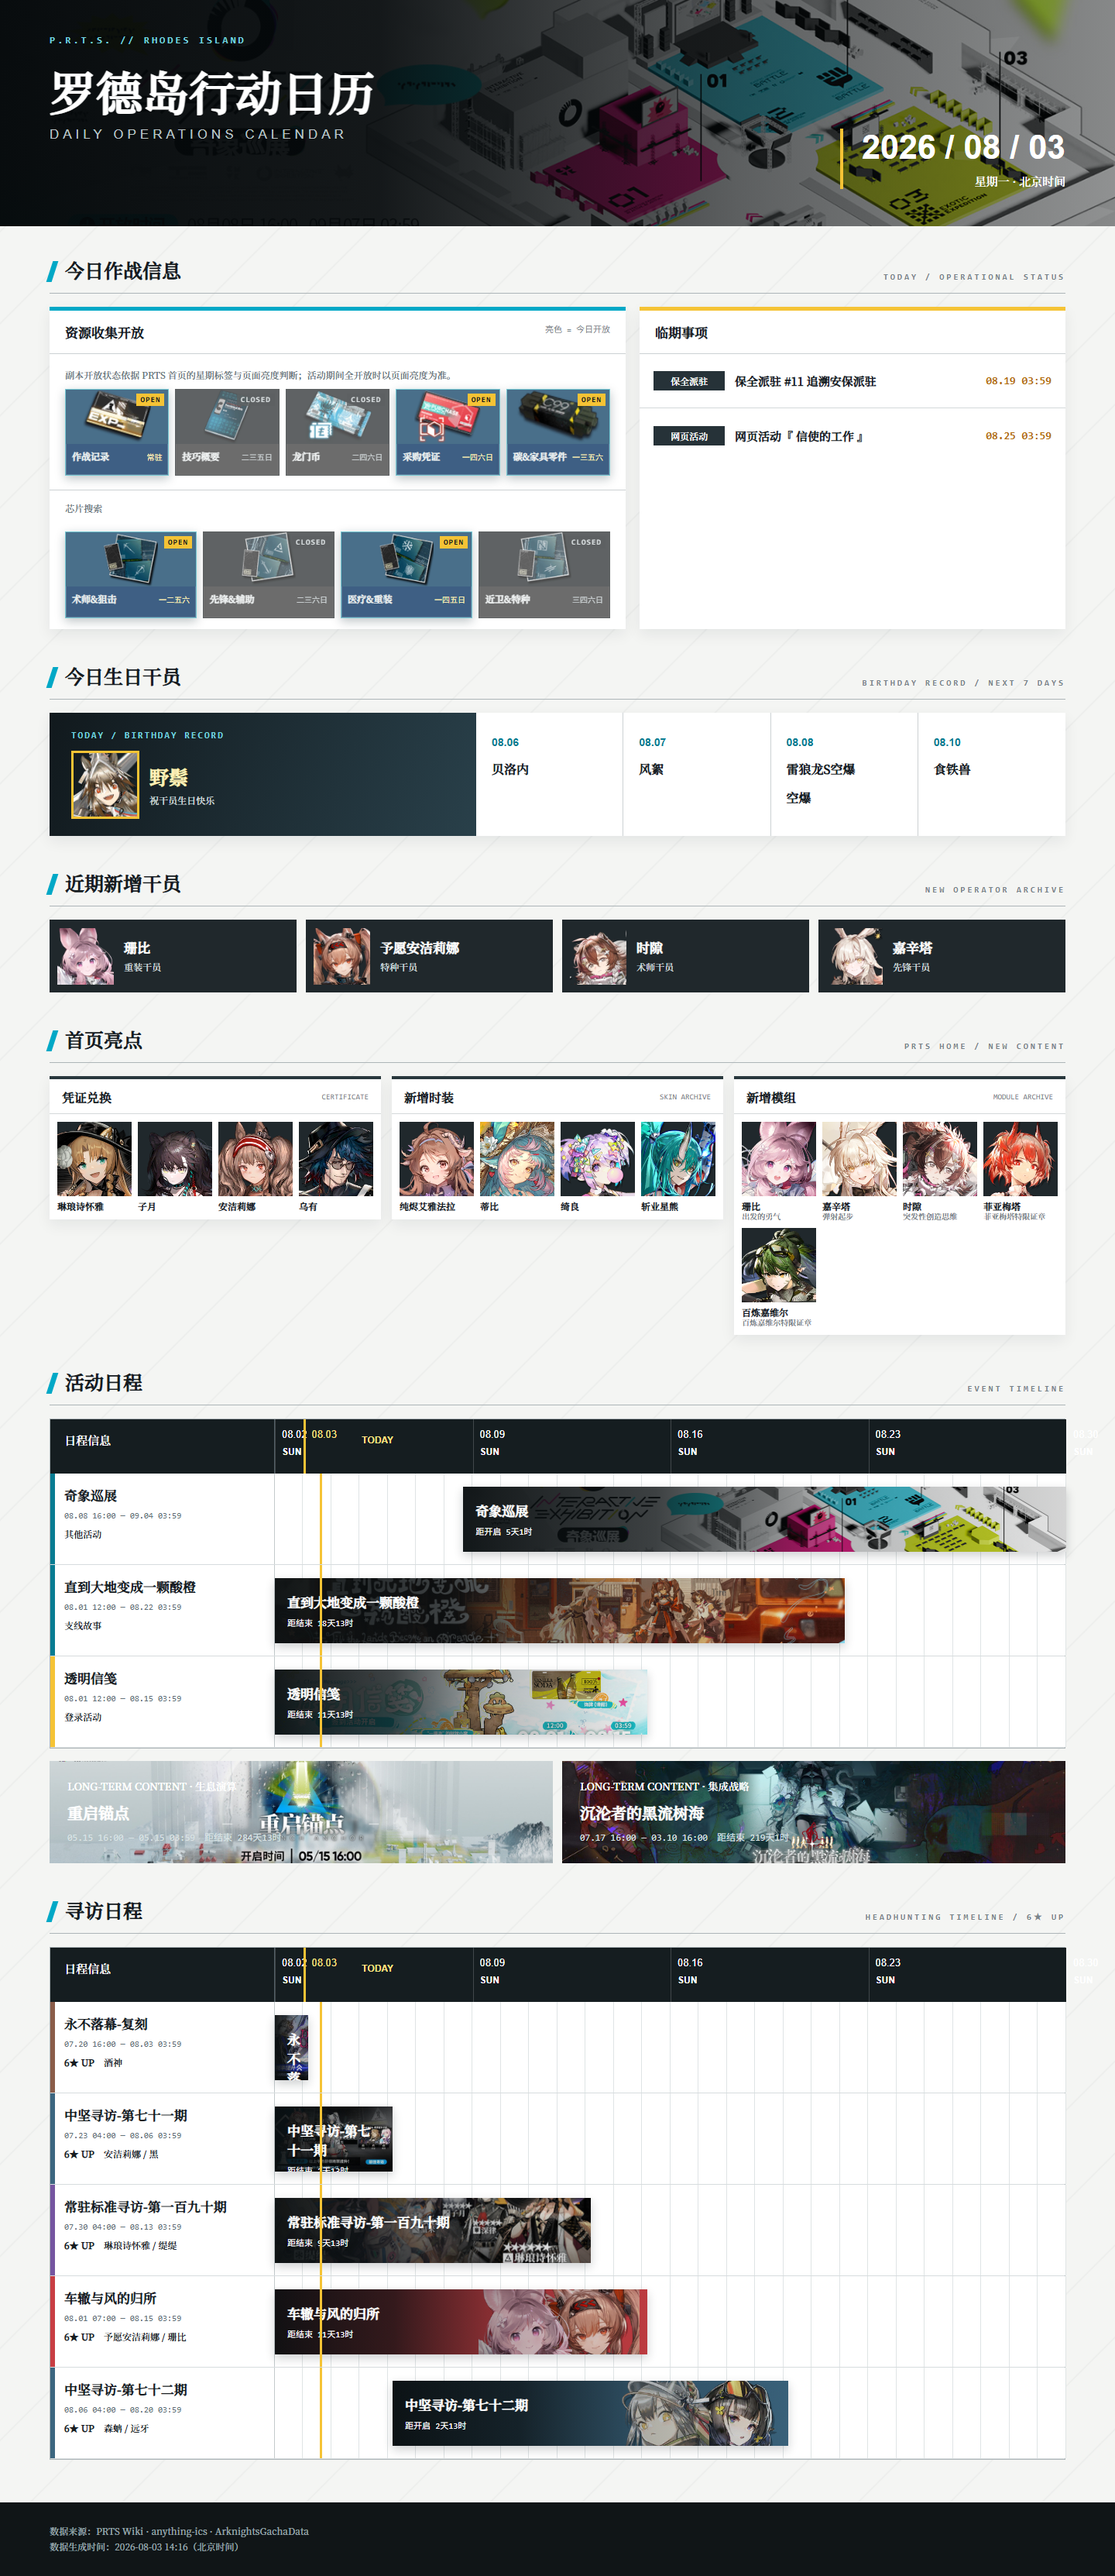
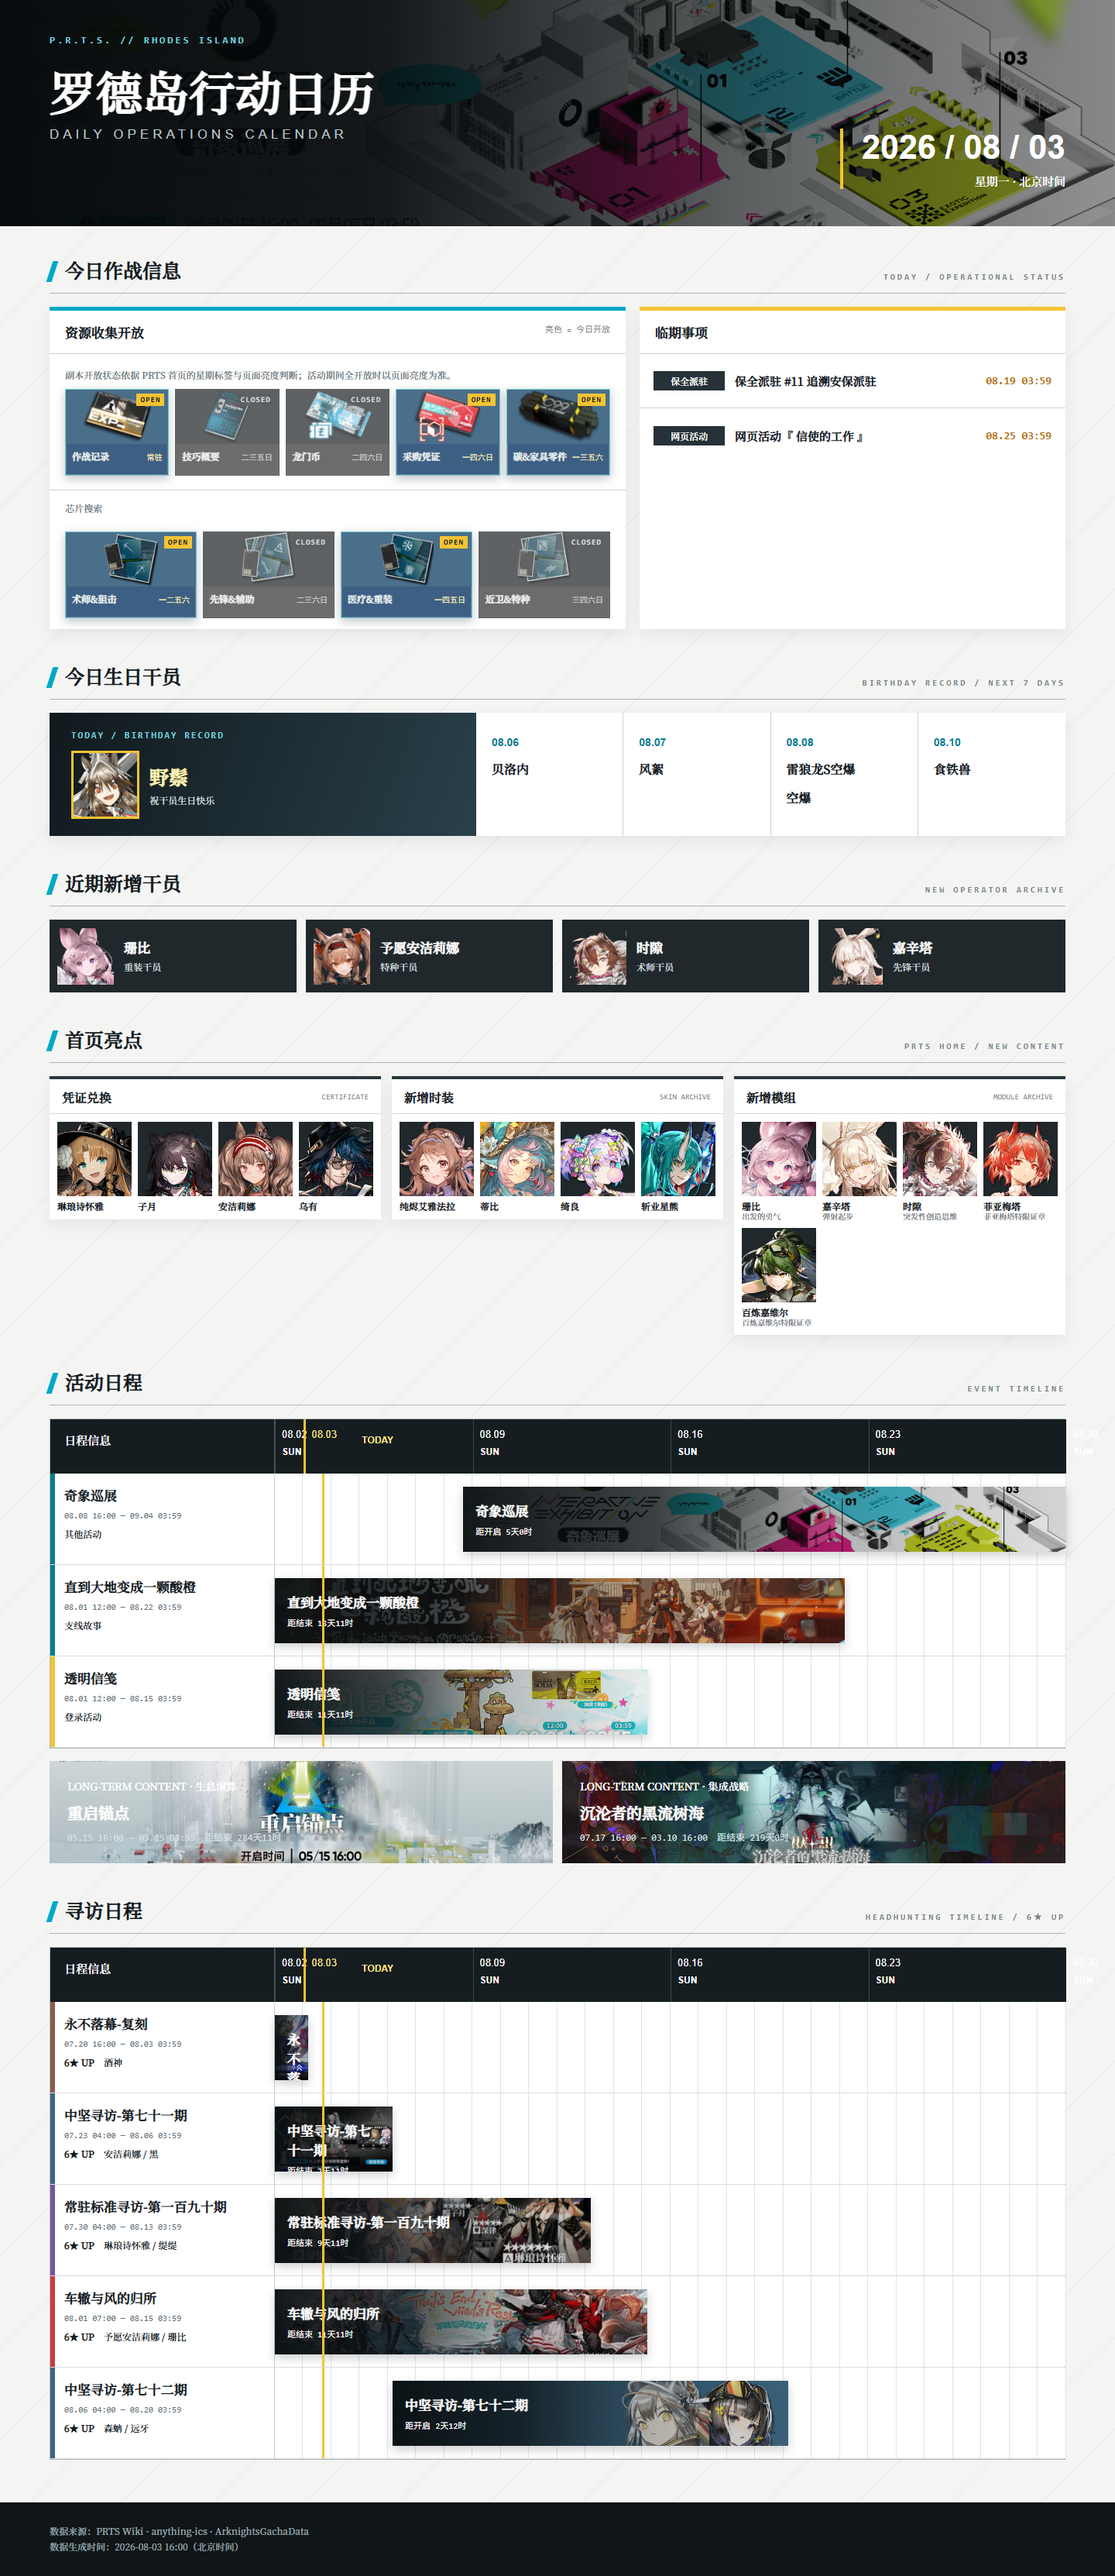
test

Changed region(s): [[0.2812, 0.7744, 0.5938, 0.9603], [0.2812, 0.5886, 0.3125, 0.6815]]

diff --git a/sources/gacha.py b/sources/gacha.py
@@ -1,6 +1,7 @@
 from __future__ import annotations
 
 import asyncio
+import re
 from datetime import datetime
 from zoneinfo import ZoneInfo
 
@@ -66,7 +67,7 @@ class GachaSource:
                 continue
             server = server_map.get(pool.get("id"), {})
             six, weighted = self._up_names(server, character_table)
-            match = self._match_overview(pool_start, pool_end, overview)
+            match = self._match_overview(pool_start, pool_end, overview, pool.get("name", ""))
             if match and match.get("six"):
                 six = match["six"]
             result.append({
@@ -81,17 +82,41 @@ class GachaSource:
             })
         return sorted(result, key=lambda item: (item["start"], item["end"]))
 
-    @staticmethod
-    def _match_overview(start: datetime, end: datetime, rows: list[dict]) -> dict | None:
+    @classmethod
+    def _match_overview(
+        cls,
+        start: datetime,
+        end: datetime,
+        rows: list[dict],
+        pool_name: str = "",
+    ) -> dict | None:
+        parsed: list[tuple[dict, datetime, datetime]] = []
         for row in rows:
             try:
                 row_start = datetime.strptime(row["start"], "%Y-%m-%d %H:%M").replace(tzinfo=CN_TZ)
                 row_end = datetime.strptime(row["end"], "%Y-%m-%d %H:%M").replace(tzinfo=CN_TZ)
             except (KeyError, ValueError):
                 continue
+            parsed.append((row, row_start, row_end))
             if abs((row_start - start).total_seconds()) <= 120 and abs((row_end - end).total_seconds()) <= 120:
                 return row
+
+        normalized = cls._normalize_pool_name(pool_name)
+        if normalized:
+            for row, row_start, row_end in parsed:
+                row_name = cls._normalize_pool_name(row.get("name", ""))
+                if not row_name or not (row_name == normalized or row_name in normalized or normalized in row_name):
+                    continue
+                # PRTS 与服务器数据偶尔会对同日开放时间采用不同口径；名称一致且结束时间接近时仍可安全匹配。
+                if abs((row_end - end).total_seconds()) <= 6 * 3600:
+                    return row
+                if row_start.date() == start.date() and row_end.date() == end.date():
+                    return row
         return None
+
+    @staticmethod
+    def _normalize_pool_name(name: str) -> str:
+        return re.sub(r"[\s·・\-—_【】『』「」]", "", name or "").lower()
 
     @staticmethod
     def _up_names(server: dict, characters: dict) -> tuple[list[str], list[str]]:

diff --git a/sources/prts.py b/sources/prts.py
@@ -330,6 +330,7 @@ class PrtsSource:
             if not header_row:
                 continue
             headers = [cell.get_text(" ", strip=True) for cell in header_row.find_all(["th", "td"], recursive=False)]
+            name_index = self._header_index(headers, ("卡池一览", "卡池名称", "寻访名称"))
             time_index = self._header_index(headers, ("开启时间", "开放时间", "寻访时间"))
             six_index = self._header_index(headers, ("6星", "六星"))
             if time_index is None or six_index is None:
@@ -344,12 +345,23 @@ class PrtsSource:
                     continue
                 six = [a.get("title", "").strip() for a in cells[six_index].select("a[title]")]
                 six = list(dict.fromkeys(x for x in six if x and not x.startswith(("文件:", "File:"))))
-                image = row.select_one("img")
+                name_cell = cells[name_index] if name_index is not None and name_index < len(cells) else cells[0]
+                raw_name = name_cell.get_text(" ", strip=True)
+                pool_name = self._gacha_name(raw_name)
+                image = name_cell.select_one("img") or row.select_one("img")
                 rows.append({
+                    "name": pool_name, "raw_name": raw_name,
                     "start": times[0], "end": times[1], "six": six,
                     "image": urljoin(self.base_url, image.get("src", "")) if image else "",
                 })
         return rows
+
+    @staticmethod
+    def _gacha_name(text: str) -> str:
+        """Extract the formal pool name from a PRTS table cell."""
+        # PRTS may prefix a formal pool title with a bracketed category.
+        # The suffix is the pool name shared by the other data sources.
+        return re.sub(r"^[【『「][^】』」]+[】』」]\s*", "", text.strip()).strip()
 
     @staticmethod
     def _header_index(headers: list[str], candidates: tuple[str, ...]) -> int | None:

diff --git a/tests/test_parsers.py b/tests/test_parsers.py
@@ -21,6 +21,27 @@ class ParserTests(unittest.TestCase):
         )
         self.assertEqual(found["six"], ["琳琅诗怀雅", "缇缇"])
 
+    def test_gacha_name_discards_prts_category_prefix(self):
+        self.assertEqual(
+            PrtsSource._gacha_name("【限定寻访·夏季】车辙与风的归所"),
+            "车辙与风的归所",
+        )
+
+    def test_match_gacha_overview_by_name_when_start_time_differs(self):
+        tz = ZoneInfo("Asia/Shanghai")
+        row = {
+            "name": "车辙与风的归所",
+            "start": "2026-08-01 12:00",
+            "end": "2026-08-15 03:59",
+            "image": "https://media.prts.wiki/banner.jpg",
+        }
+        found = GachaSource._match_overview(
+            datetime(2026, 8, 1, 7, 0, tzinfo=tz),
+            datetime(2026, 8, 15, 3, 59, tzinfo=tz),
+            [row],
+            "车辙与风的归所",
+        )
+        self.assertEqual(found["image"], "https://media.prts.wiki/banner.jpg")
     def test_avatar_name_from_prts_media_url(self):
         url = "https://media.prts.wiki/8/87/%E5%A4%B4%E5%83%8F_%E5%8D%A1%E7%BC%87.png"
         self.assertEqual(PrtsSource._avatar_name_from_url(url), "卡缇")
